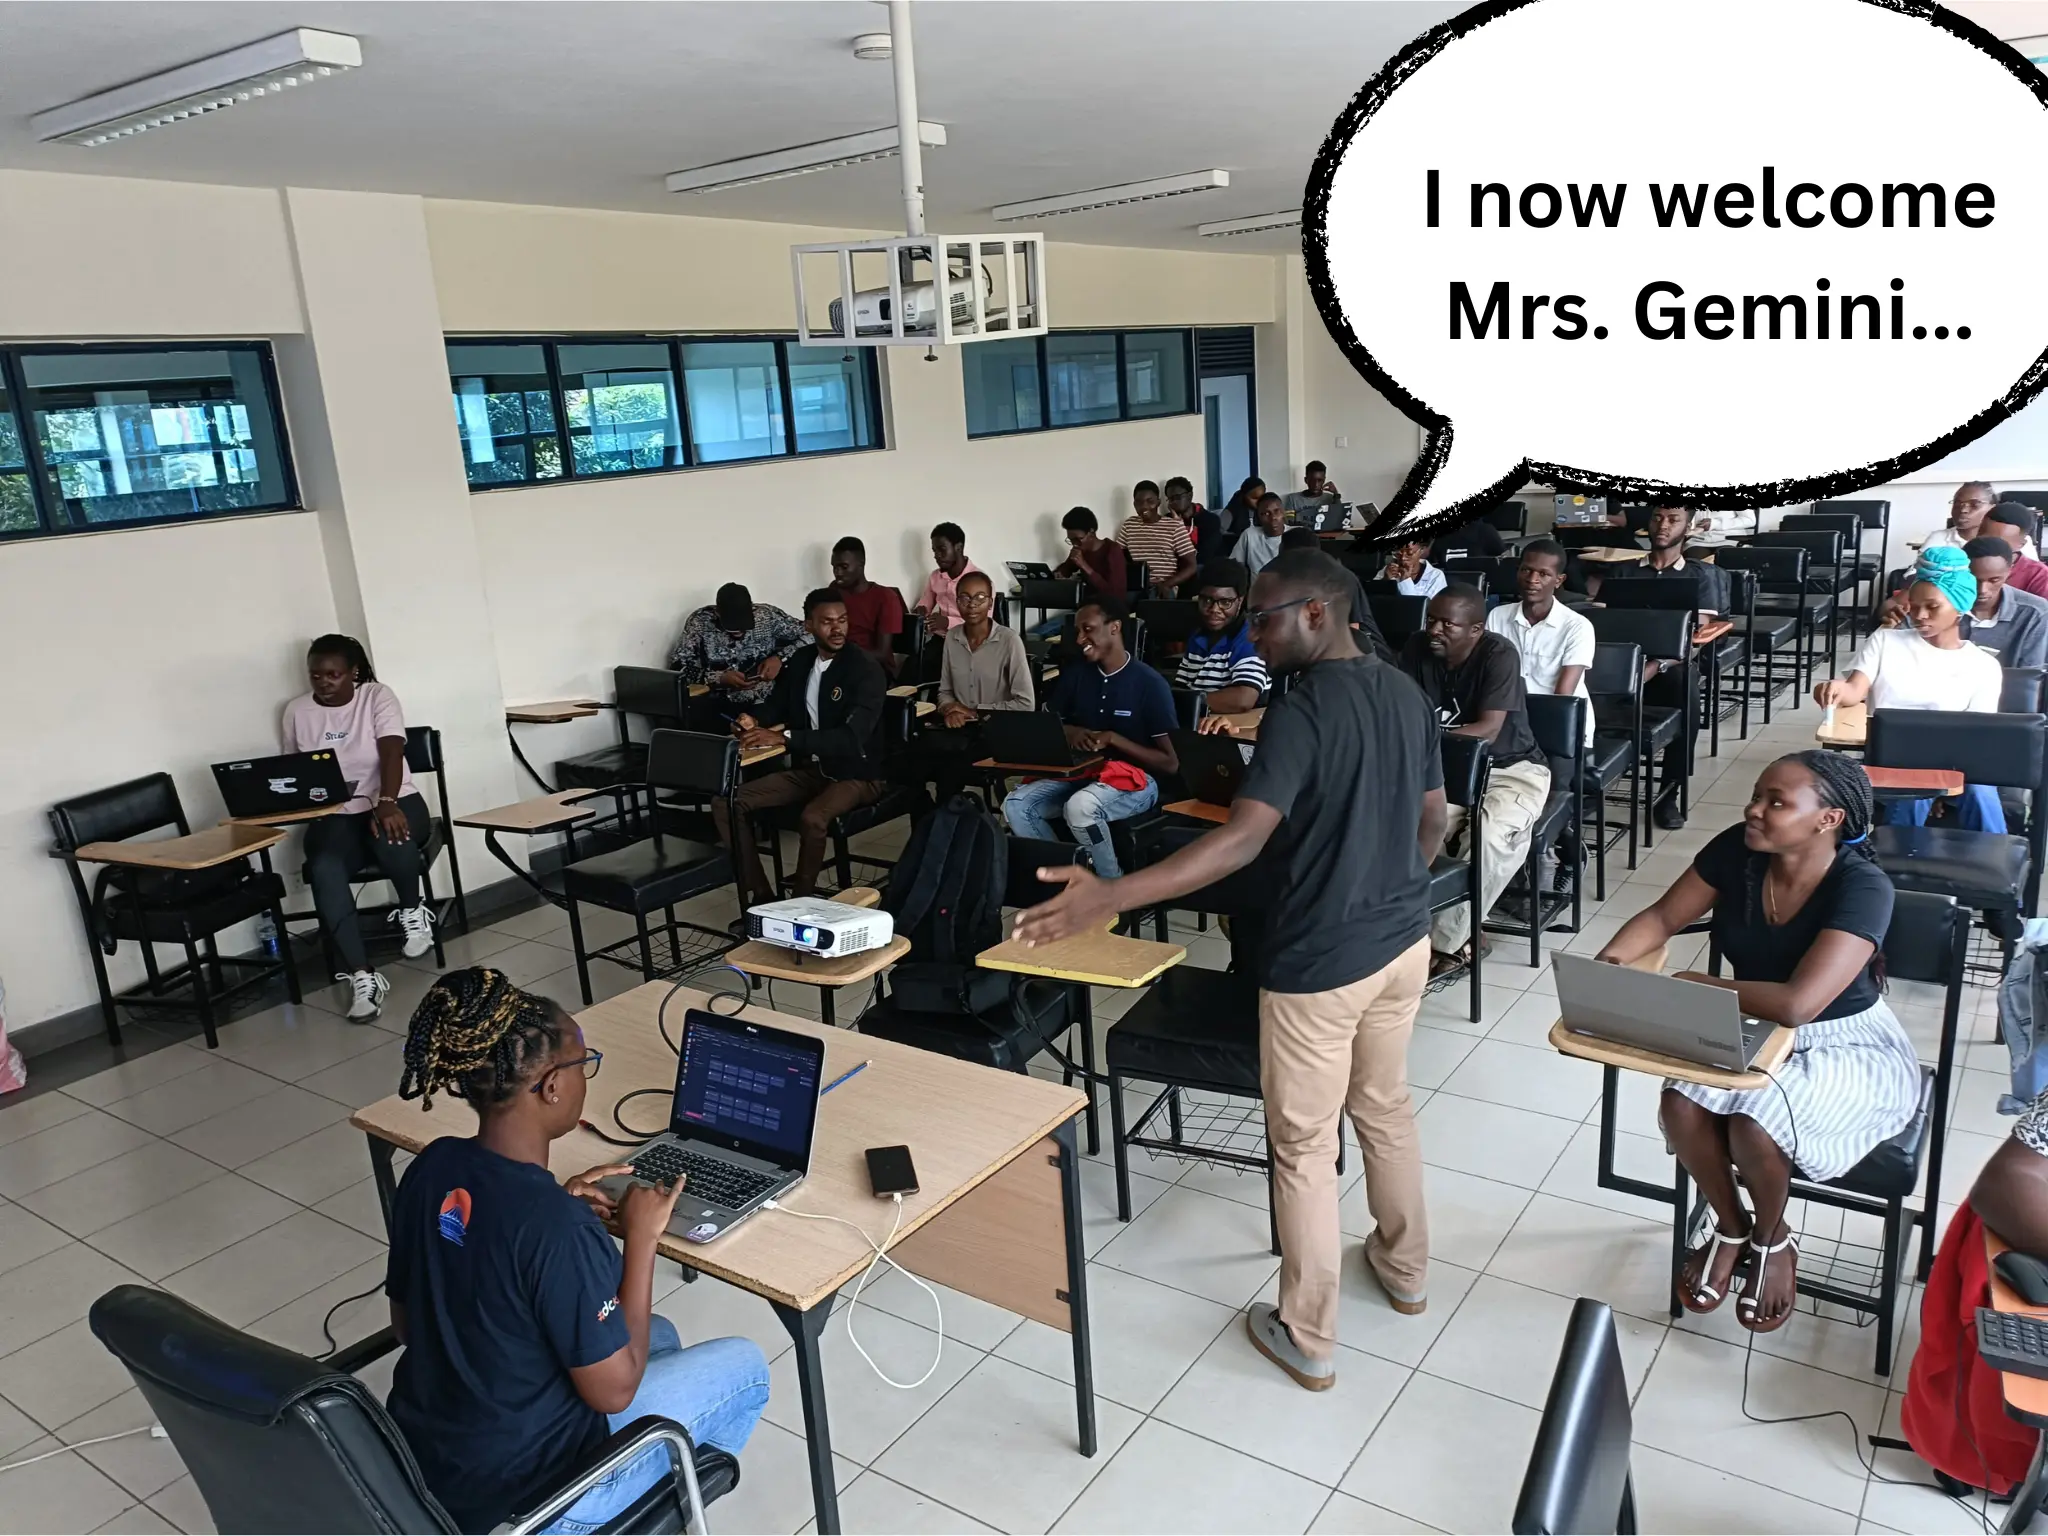
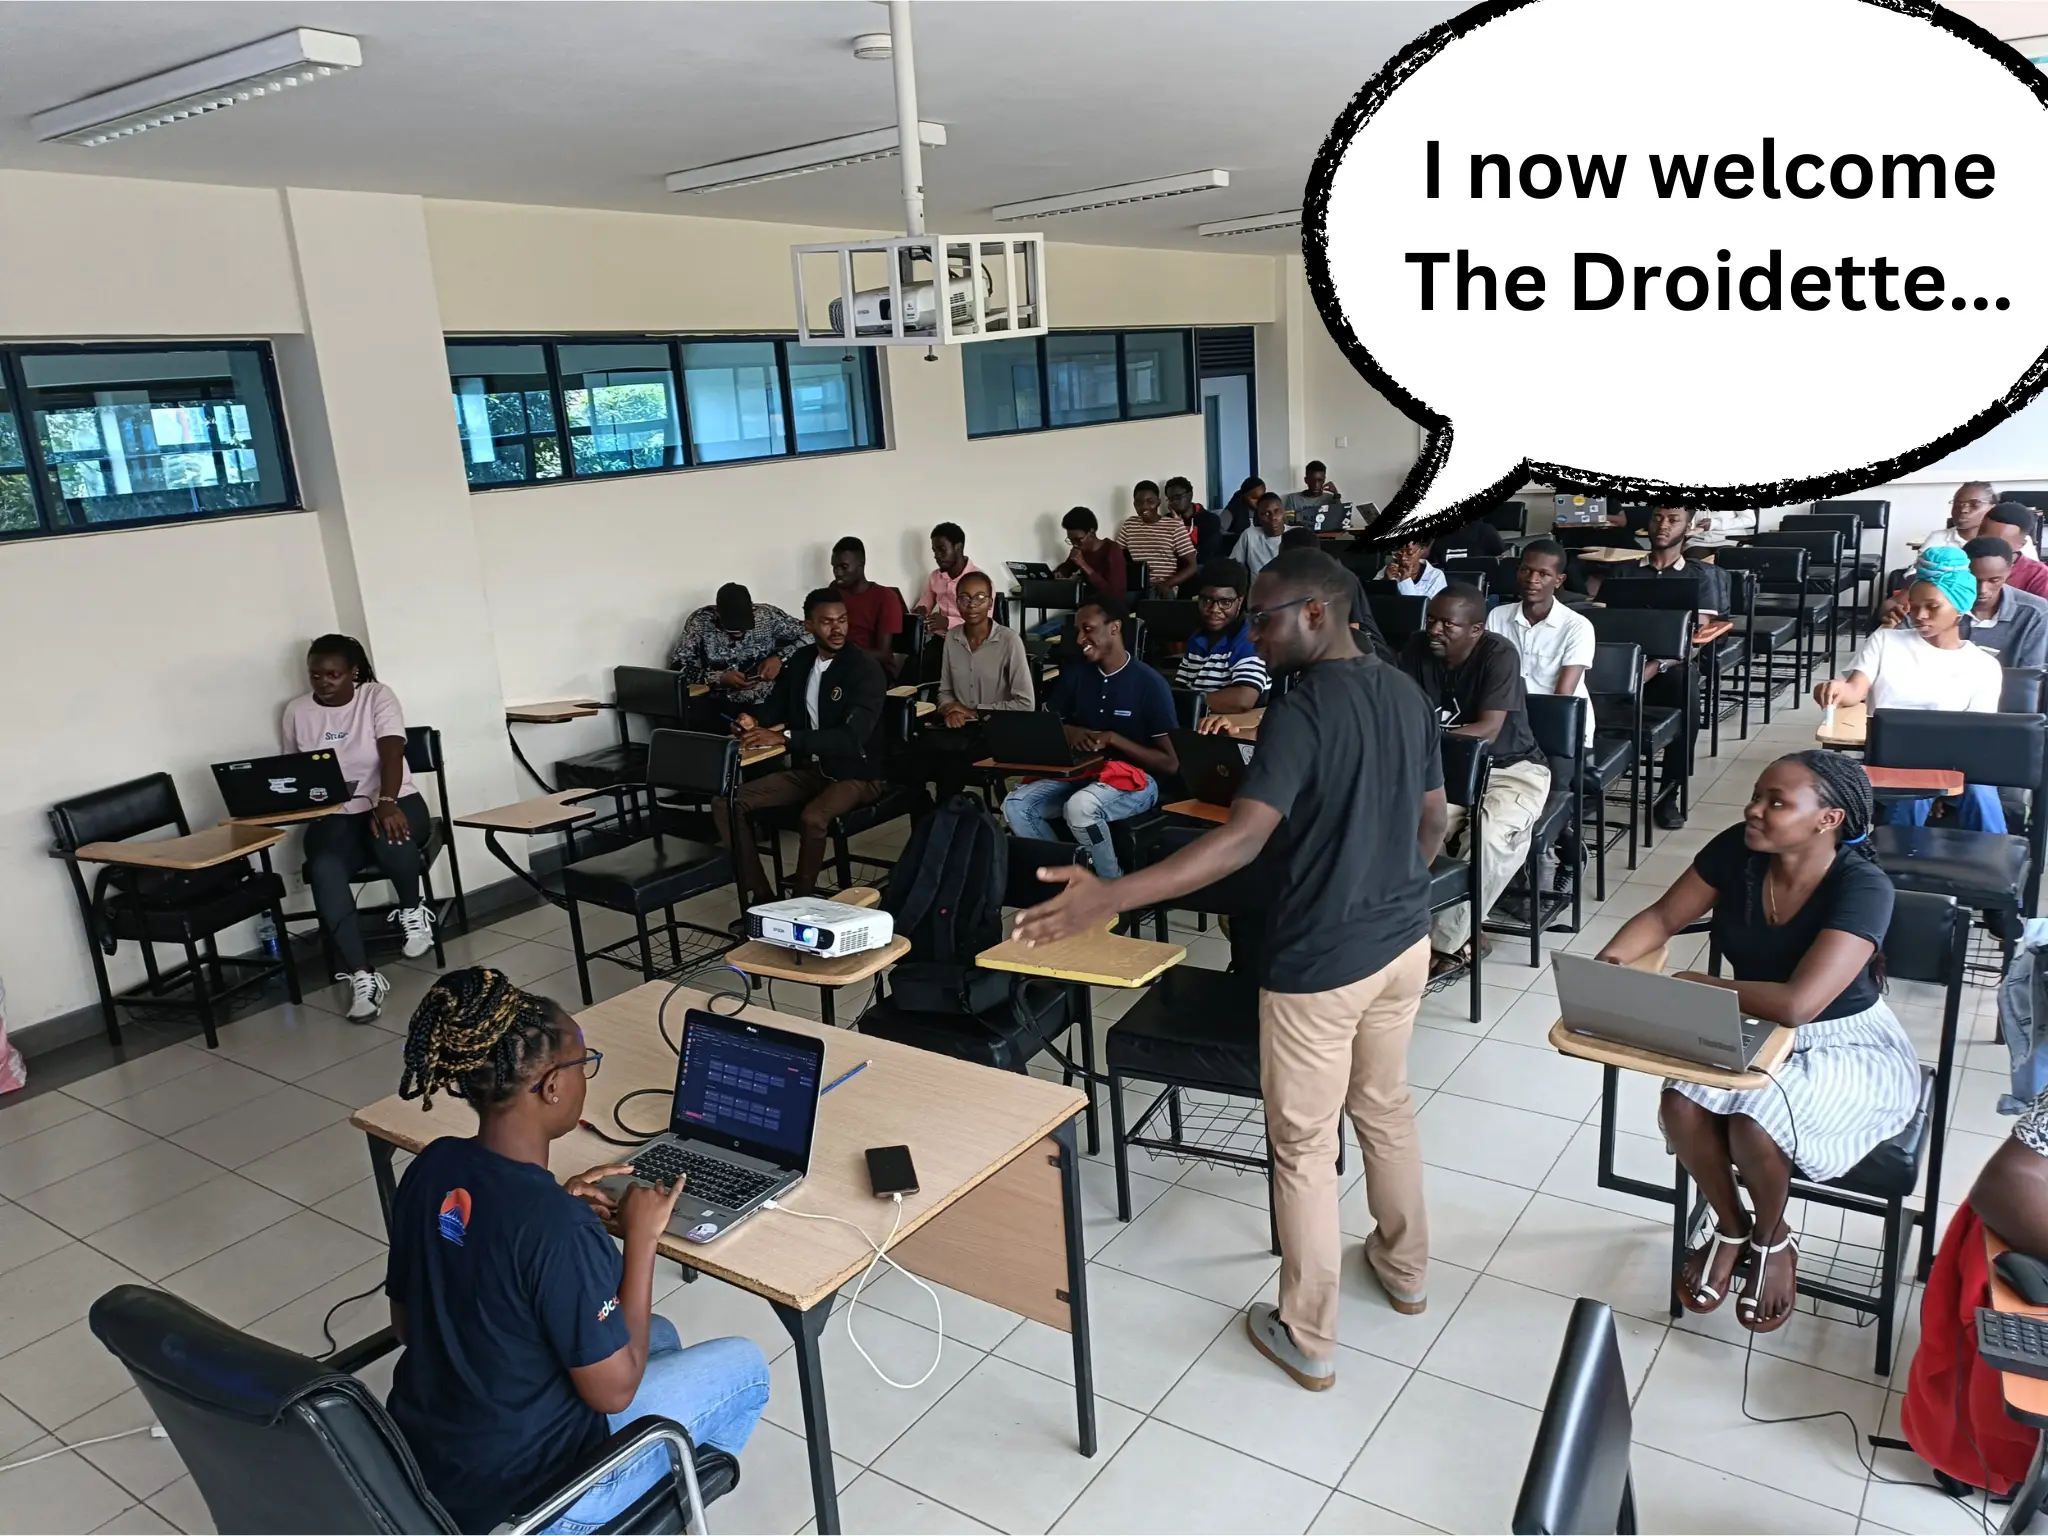
Add featured and photos...

Changed region(s): [[0.6875, 0.0938, 0.9688, 0.2188]]

diff --git a/newsletter/2024-03-29/index/index.md b/newsletter/2024-03-29/index/index.md
@@ -13,7 +13,7 @@ Have you ever struggled to keep your dependencies up to date in this dynamic fie
 
 ![Alt text](../assets/Brandy%20Odhiambo.webp)
 
-You would think that Dependabots were the only solution. What if we told you that there was another way? What if we told you that it prioritizes Automation? Yes, people of DevOps. This new option targets you too. Without wasting any time let us introduce you to: [Renovate](https://github.com/renovatebot/renovate). [Brandy](https://www.twitter.com/arianabrandy5) introduced Renovate as an automated solution that seeks to ease the process of Dependency Management. Say goodbye to Ancient Code (Interns and Juniors we are watching you) and say hello to Automation. In fact, we dare to say that Renovate might be better for you compared to Dependabots thanks to:
+You would think that Dependabots were the only solution. What if we told you that there was another way? What if we told you that it prioritizes Automation? Yes, people of DevOps. This new option targets you too. Without wasting any time, [Brandy](https://www.twitter.com/arianabrandy5) introduced [Renovate](https://github.com/renovatebot/renovate) as an automated solution that seeks to ease the process of Dependency Management. Say goodbye to Ancient Code (Interns and Juniors we are watching you) and say hello to Automation. In fact, we dare to say that Renovate might be better for you compared to Dependabots thanks to:
 
 - Dependency Dashboard that provides all of the information you need regarding your dependencies...
 - Ability to upgrade common monorepo packages...
@@ -39,31 +39,47 @@ From ChatGPT to Dall-E and now Devin, AI seems to be moving faster than most of 
 
 ![Alt text](../assets/Jacquiline%20Gitau.webp)
 
-Given that we do not want our developers to be rendered obsolete in terms of skill, we invited [Mrs. Gemini](https://twitter.com/Jacqui_Gitau) to host a workshop on Getting Started with Gemini on Android. she made use of [The Chat App](https://github.com/Jacquigee/gemini-android) to demonstrate the power of Machine Learning through artificial Intelligence. The audience was in awe for this marked a revolution of sorts in the potential of AI in building attractive, user-friendly, robust, and testable Android apps.
+Given that we do not want our developers to be rendered obsolete in terms of skill, we invited [The Droidette](https://twitter.com/Jacqui_Gitau) to host a workshop on Getting Started with Gemini on Android. She made use of [Chat Buddy](https://github.com/Jacquigee/ChatBuddy) to demonstrate the power of Machine Learning through artificial Intelligence. The audience was in awe for this marked a revolution of sorts in the potential of AI in building attractive, user-friendly, robust, and testable Android apps.
 
 ## DSA is Loading...
 Are you a lover of Data Structures and Algorithms? Don't you just love a good LeetCode session where Performance and Optimization is your love language? Worry no more for if you like it or not, we decided to feature linked Lists in The March Challenge anyway. Oh no. We did not just stop there. Android254 and Kotlin Kenya firmly believes in Test Driven Development (TDD). "How does that relate with the March Challenge?" That is the best question you could have asked for all you need to do is [click me](https://kotlinbits.vercel.app/quiz/2024/March) to test your Testing skills. See what we did there? 😏
 
 ## DroidCon Kenya 2024
-The early bird catches the worm. While we will not be catching worms any time soon, we are proud to announce that [DroidCon Kenya 2024](https://droidcon.co.ke/) will be happening from the 6th to the 8th of November this year. [His Expertness](https://twitter.com/wangerekaharun) and [The Teaman](https://twitter.com/chepsi_) made this announcement and gave the following pointers that we would like you to have too:
+The early bird catches the worm. While we will not be catching worms any time soon, we are proud to announce that [DroidCon Kenya 2024](https://droidcon.co.ke/) will be happening from the 6th to the 8th of November this year. 
 
-- Contributions to [The Droidcon Kenya Android App](https://github.com/droidconKE/droidconKeKotlin) are still open and if you would like to spice up your resume,. get access to a simulated work environment, or even gain bragging rights in matters open Source please check out [The Issues](https://github.com/droidconKE/droidconKeKotlin/issues) listed and get to work!
+![Alt text](../assets/Evans%20Chepsiror.webp)
+
+[The Teaman](https://twitter.com/chepsi_) made this announcement and gave the following pointers that we would like you to have too:
+
+- Contributions to [The Droidcon Kenya Android App](https://github.com/droidconKE/droidconKeKotlin) are still open and if you would like to spice up your resume, get access to a simulated work environment, or even gain bragging rights in matters open Source please check out [The Issues](https://github.com/droidconKE/droidconKeKotlin/issues) listed and get to work!
 - Did we mention that the event will be happening from the 6th to the 8th of November?
 - DroidCon Kenya will be turning 5...
-- His Expertness will be launching his book: Mastering Kotlin for Android 14: Build powerful Android apps from scratch using jetpack libraries and Jetpack Compose on the 5th of April. Do you want to finally master Android(Kotlin), get that 6-figure job, and finally buy that German Machine? Well, then what are you waiting for? Pre-order the book [here](https://www.amazon.com/Mastering-Kotlin-Android-14-libraries/dp/1837631719/ref=tmm_pap_swatch_0?link_from_packtlink=yes) and get to work!
 
 ## Featured
 
-### 1. Books
-Are you what we would call an "avid" reader? If that is you then here are some books to stimulate your intellect:
+### 1. Mastering Kotlin for Android 14: Build powerful Android apps from scratch using Jetpack libraries and Jetpack Compose
+![Alt text](../assets/Mastering%20Kotlin%20for%20Android%2014-%20Build%20powerful%20Android%20apps%20from%20scratch%20using%20Jetpack%20libraries%20and%20Jetpack%20Compose.webp)
+[His Expertness](https://twitter.com/wangerekaharun) will be launching his book: [Mastering Kotlin for Android 14: Build powerful Android apps from scratch using jetpack libraries and Jetpack Compose](https://www.amazon.com/Mastering-Kotlin-Android-14-libraries/dp/1837631719/ref=tmm_pap_swatch_0?link_from_packtlink=yes) on the 5th of April. Do you want to finally master Android(Kotlin), get that 6-figure job, and finally buy that German Machine? Well, then what are you waiting for? Pre-order the book [here](https://www.amazon.com/Mastering-Kotlin-Android-14-libraries/dp/1837631719/ref=tmm_pap_swatch_0?link_from_packtlink=yes) and get to work!
 
-- [Mastering Kotlin for Android 14: Build powerful Android apps from scratch using Jetpack libraries and Jetpack Compose](https://www.amazon.com/Mastering-Kotlin-Android-14-libraries/dp/1837631719/ref=tmm_pap_swatch_0?link_from_packtlink=yes)
+### 2. Asking Efficiently
+![Alt text](../assets/Asking%20Efficiently.webp)
+Juniors, this one is for you. Have you ever been stuck on a coding problem and just did not know who or how to ask for help? Do you ever feel like you are a bother to those you ask questions? Would you like to ask better questions using better methods (pun unintended)? If that is the case, look no further than [this article](https://evanschepsiror.medium.com/asking-efficiently-5820c41f8b29) which will guide you on how to ask efficient questions as written by a Senior...
 
-### 2. Apps
-Are you interested in checking out products built by our community memebers? Look no further and check out these products courtesy of Android254 members:
+### 3. Sain (サイン)
+![Alt text](../assets/Sain%20(サイン).gif)
+Would you care to try out a tool that would allow your users to write signatures in your app? Drum rolls please for we are excited to unveil to you: [Sain (サイン)](https://github.com/joelkanyi/sain) Sain (サイン) is a Compose Multiplatform library built by [Joel Kanyi](https://twitter.com/_joelkanyi) for capturing and exporting signatures as ImageBitmap with customizable options. Perfect for electronic signature, legal documents and more...
 
-- [Palette Lab - Color Picker](https://play.google.com/store/apps/details?id=com.risma.palettelab)
-- [NRBSTEPPER](https://www.alloysamasakha.com/etappstore)
+### 4. Palette Lab - Color Picker
+![Alt text](../assets/Palette%20Lab%20-%20Color%20Picker.webp)
+If you genuinely thought that we forgot about UI/UX Design then your delusions are easily comparable to those of J*va programmers. [Palette Lab - Color Picker](https://play.google.com/store/apps/details?id=com.risma.palettelab&pli=1) is primarily built for developers, designers  and anybody with an interest in aesthetic - related activities like fashion or photography. It helps you explore color as well as see what color combinations best suit whatever your interest is, allowing you to keep a rich collection of colors and palettes. Thank [Augustine](https://twitter.com/CodesGustine?t=Mx-jvT52c7L9aA16ZhGx0Q) for this empathetic design product...
+
+### 5. NRBSTEPPER
+![Alt text](../assets/NRBSTEPPER.webp)
+Are you interested in fashion and expanding your wardrobe beyond Tech swags? Would you like to purchase your next outfit based on a product built by one of our community members. Check out [NRBSTEPPER](https://www.alloysamasakha.com/etappstore) as built by [Alloys](https://twitter.com/alloysworld?t=cU2BvjIUsN6CZaiKrxP5bw)
+
+### 6. Jammo Sports
+![Alt text](../assets/Jammo%20Sports.webp)
+Footbal fans are allowed to cheer further for we are proud to introduce [Jammo Sports](https://play.google.com/store/apps/details?id=com.jammo.app.jammoapp). As , its creator put it, "It is a platform to display all the sporting events majorly those happening in the African continent. it's a football platform meant for live match events converage, giving info about teams, competitions, upcoming fixtures and game results. The platform currently broadcasts to it's users via and android app, found on playstore via the link  [https://play.google.com/store/apps/details?id=com.jammo.app.jammoapp](https://play.google.com/store/apps/details?id=com.jammo.app.jammoapp). The venture has been in operation since August last year just as the current 2023/24 season of the FKFPL began. So far I have managed to have two competitions on board that is the FKF premier leage and the NSL as well. One might ask how we collect the live data ? I have a number of people who do the collection straight from the stadiums as the games are being played, I call them data scouts. Once the data is sent into the system, it's then processed in real-time and then updated on the app for our viewers to consume. I have had challenges of my own through out the journey, and one of the challenges has been funding for the scouts coz they have to be remunerated at the end of the day. The end goal of this venture is to create awearness about football in the country hence growing the sport for the advatage of out sportsmen and the whole stakeholders spectrum..."...
 
 ## Until April
 It is at this point that we acknowledge our new beginnings and pledge to have a transformative 2024. We have journeyed, will still journey with you and gears are about to be shifted (tech bros please calm down) in your favour. If you would like to level up your career in Android, then attending our Monthly Meetups, building in public, and interacting with our members should be part of your routine. We cannot wait to hear and share your stories. See you in April 👋...
@@ -79,13 +95,18 @@ It is at this point that we acknowledge our new beginnings and pledge to have a 
 ### 1. Newsletter Writing, Editing, and Publishing
 - [Emmanuel Muturia™](https://twitter.com/emmanuelmuturia)
 
-### 2. Event Organisation
-- [Android254](https://twitter.com/254androiddevs)
+### 2. Featured
+- [His Expertness](https://twitter.com/wangerekaharun)
+- [The Teaman](https://twitter.com/chepsi_)
+- [Joel Kanyi](https://twitter.com/_joelkanyi)
+- [Augustine](https://twitter.com/CodesGustine?t=Mx-jvT52c7L9aA16ZhGx0Q)
+- [Alloys](https://twitter.com/alloysworld?t=cU2BvjIUsN6CZaiKrxP5bw)
+- [Jammo Sports](https://play.google.com/store/apps/details?id=com.jammo.app.jammoapp)
 
 ### 3. Speakers
 - [Brandy Odhiambo](https://www.twitter.com/arianabrandy5)
-- [Noah Muhindi](https://twitter.com/noah_muhindi)
-- [Jacqui Gitau](https://twitter.com/Jacqui_Gitau)
+- [The Beerman](https://twitter.com/noah_muhindi)
+- [The Droidette](https://twitter.com/Jacqui_Gitau)
 
 ### 4. The Kotlin Challenge
 - [The Chief Senior Dishwasher](https://twitter.com/mambo_bryan)
@@ -93,8 +114,12 @@ It is at this point that we acknowledge our new beginnings and pledge to have a 
 ### 5. DroidCon Kenya 2024 (Announcements)
 - [The Teaman](https://twitter.com/chepsi_)
 
-### 6. Featured
+### 6. Hosts
+- [Daystar University](https://www.daystar.ac.ke/)
+- [Eugene Oyier](https://twitter.com/eugeneoyier)
+- [Newton Mutugi](https://twitter.com/n_mutugii)
 
-
-### 7. Trivia
-- [Emmanuel Muturia™](https://twitter.com/emmanuelmuturia)
+### 7. Sponsors
+- [Android254](https://twitter.com/254androiddevs)
+- [Kotlin Kenya](https://twitter.com/kotlinkenya)
+- [KotlinBits](https://kotlinbits.vercel.app/)
